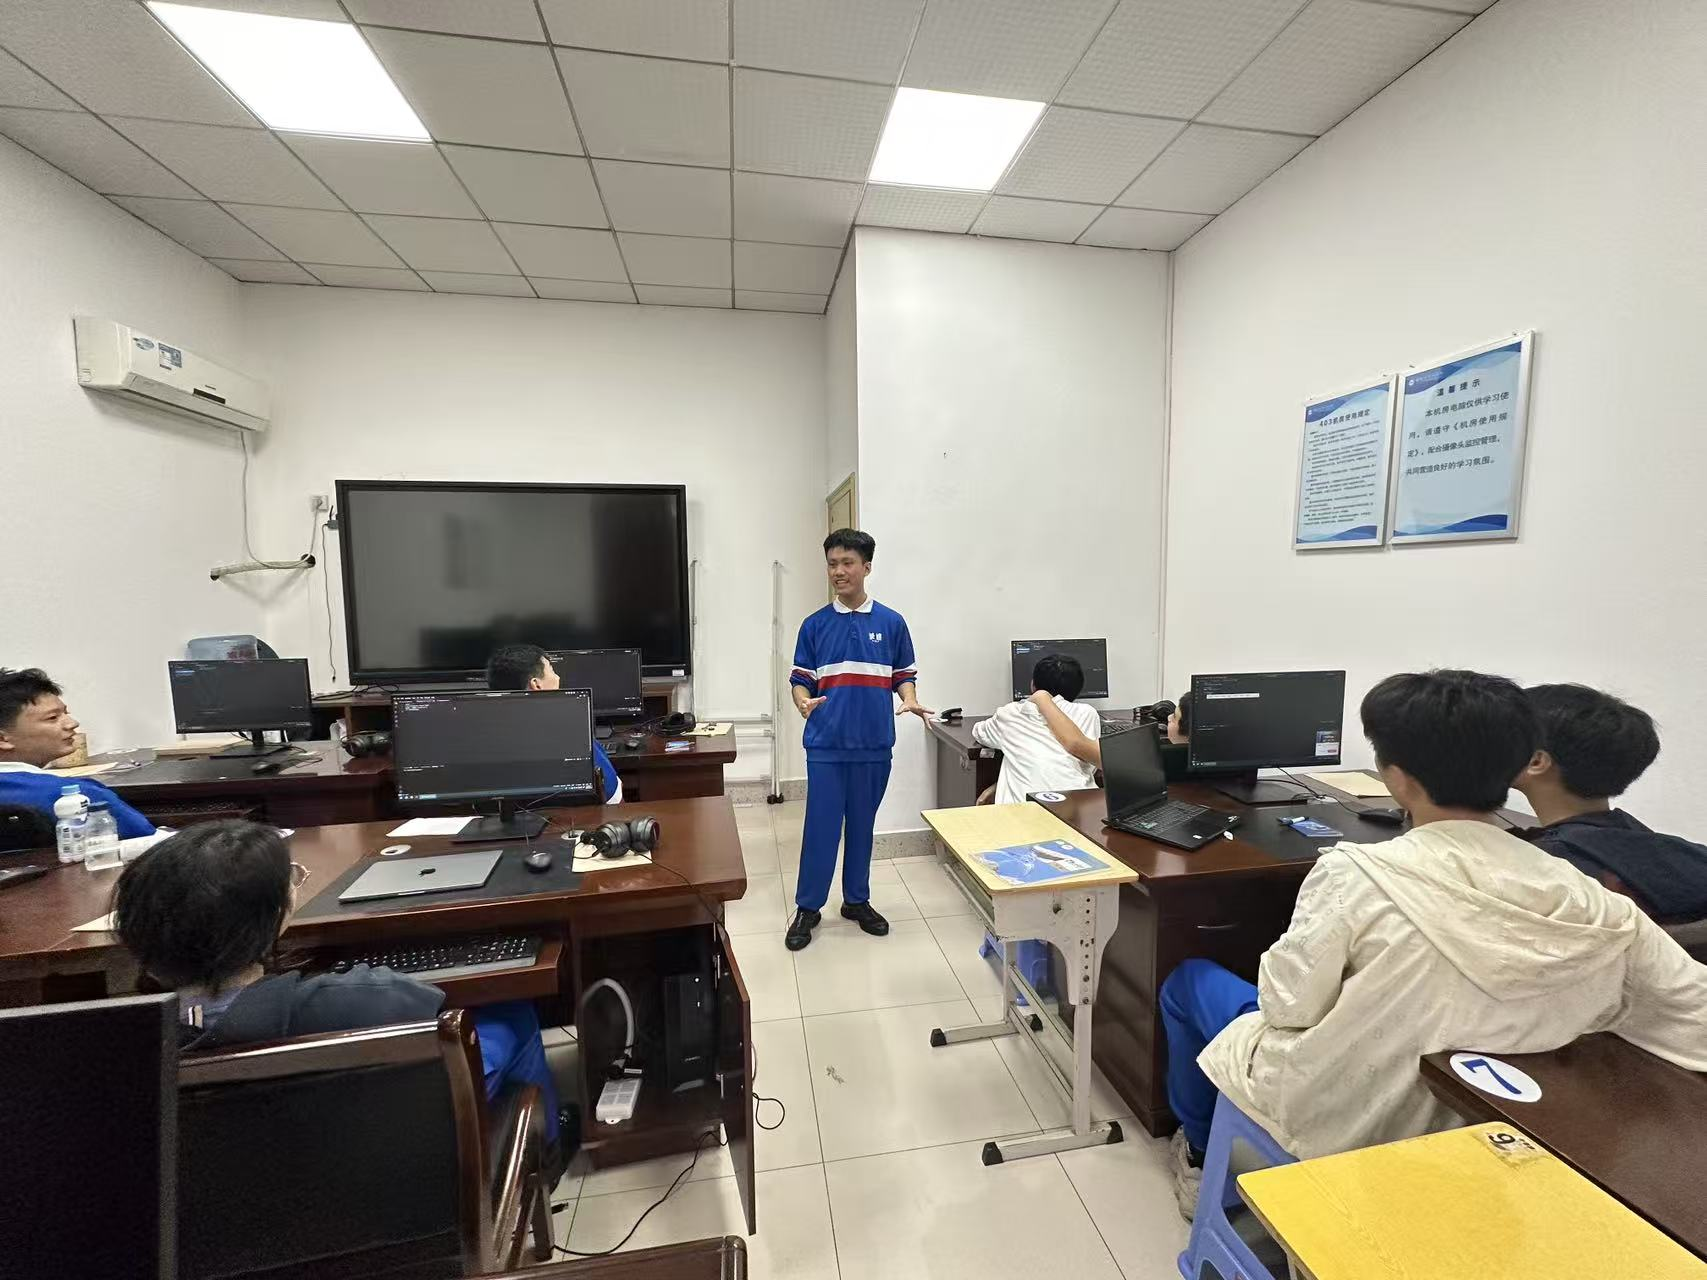
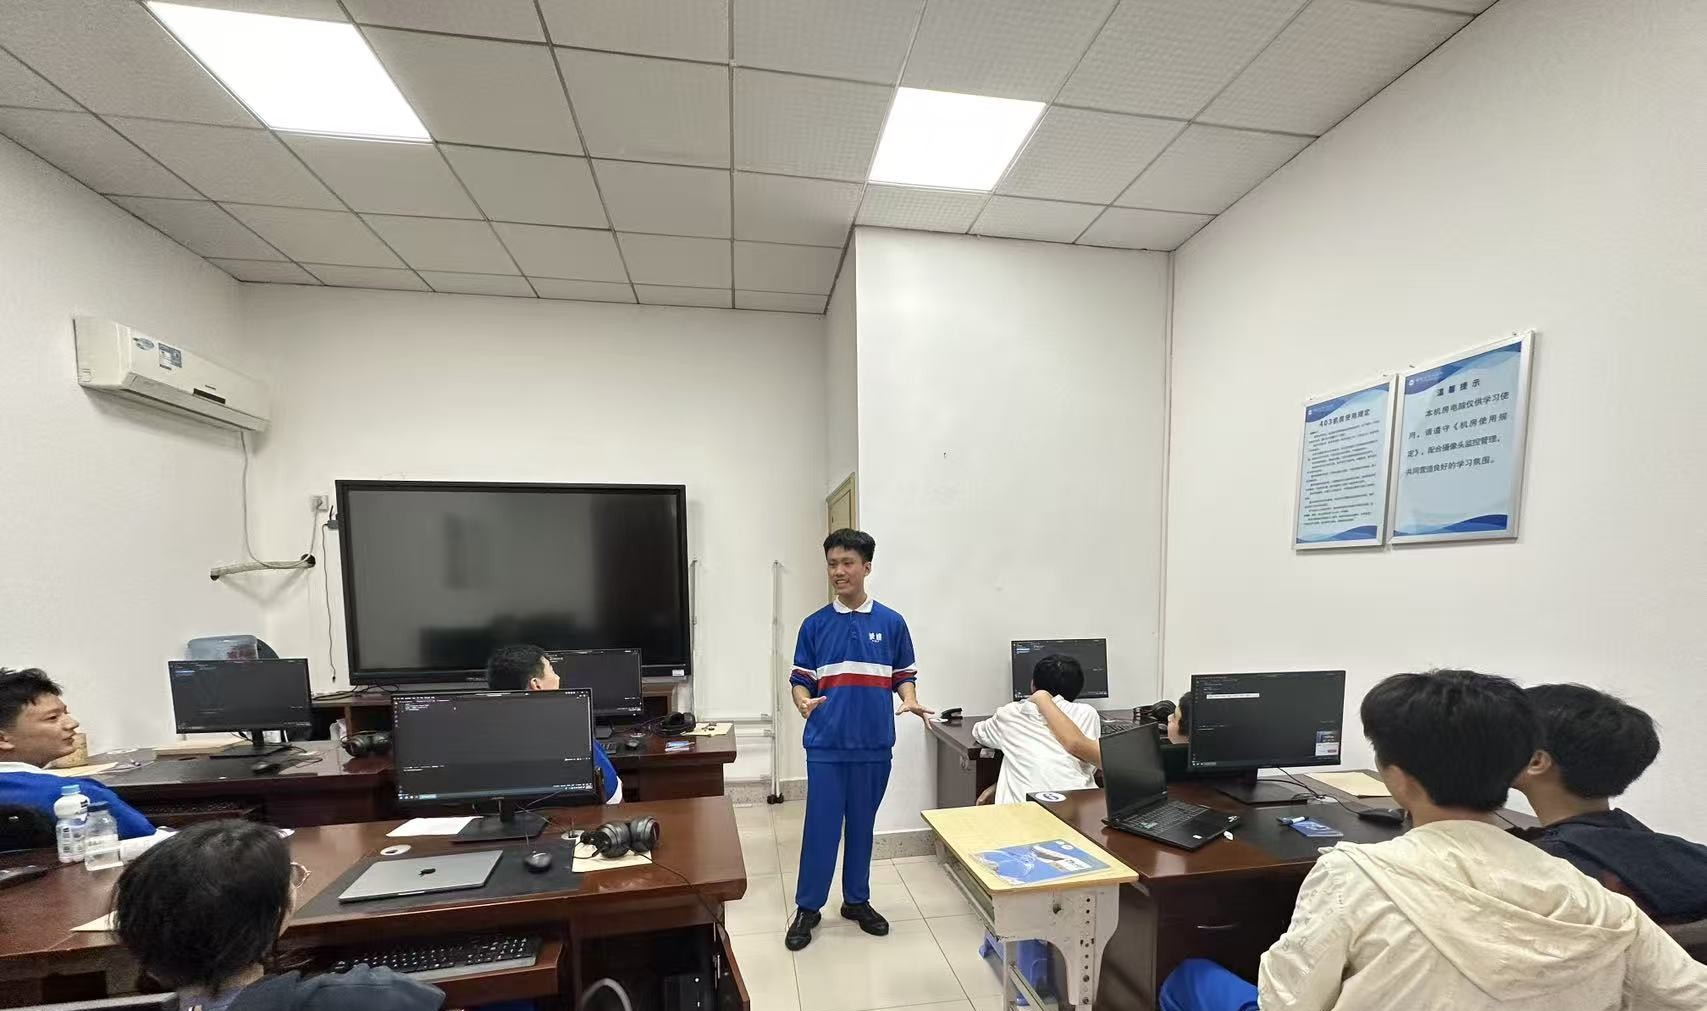
?

diff --git a/css/style.css b/css/style.css
@@ -160,7 +160,7 @@ body {
     width: 100%;
     height: 100%;
     object-fit: cover;
-    object-position: center bottom;
+    object-position: top center;
 }
 
 .carousel-caption {
